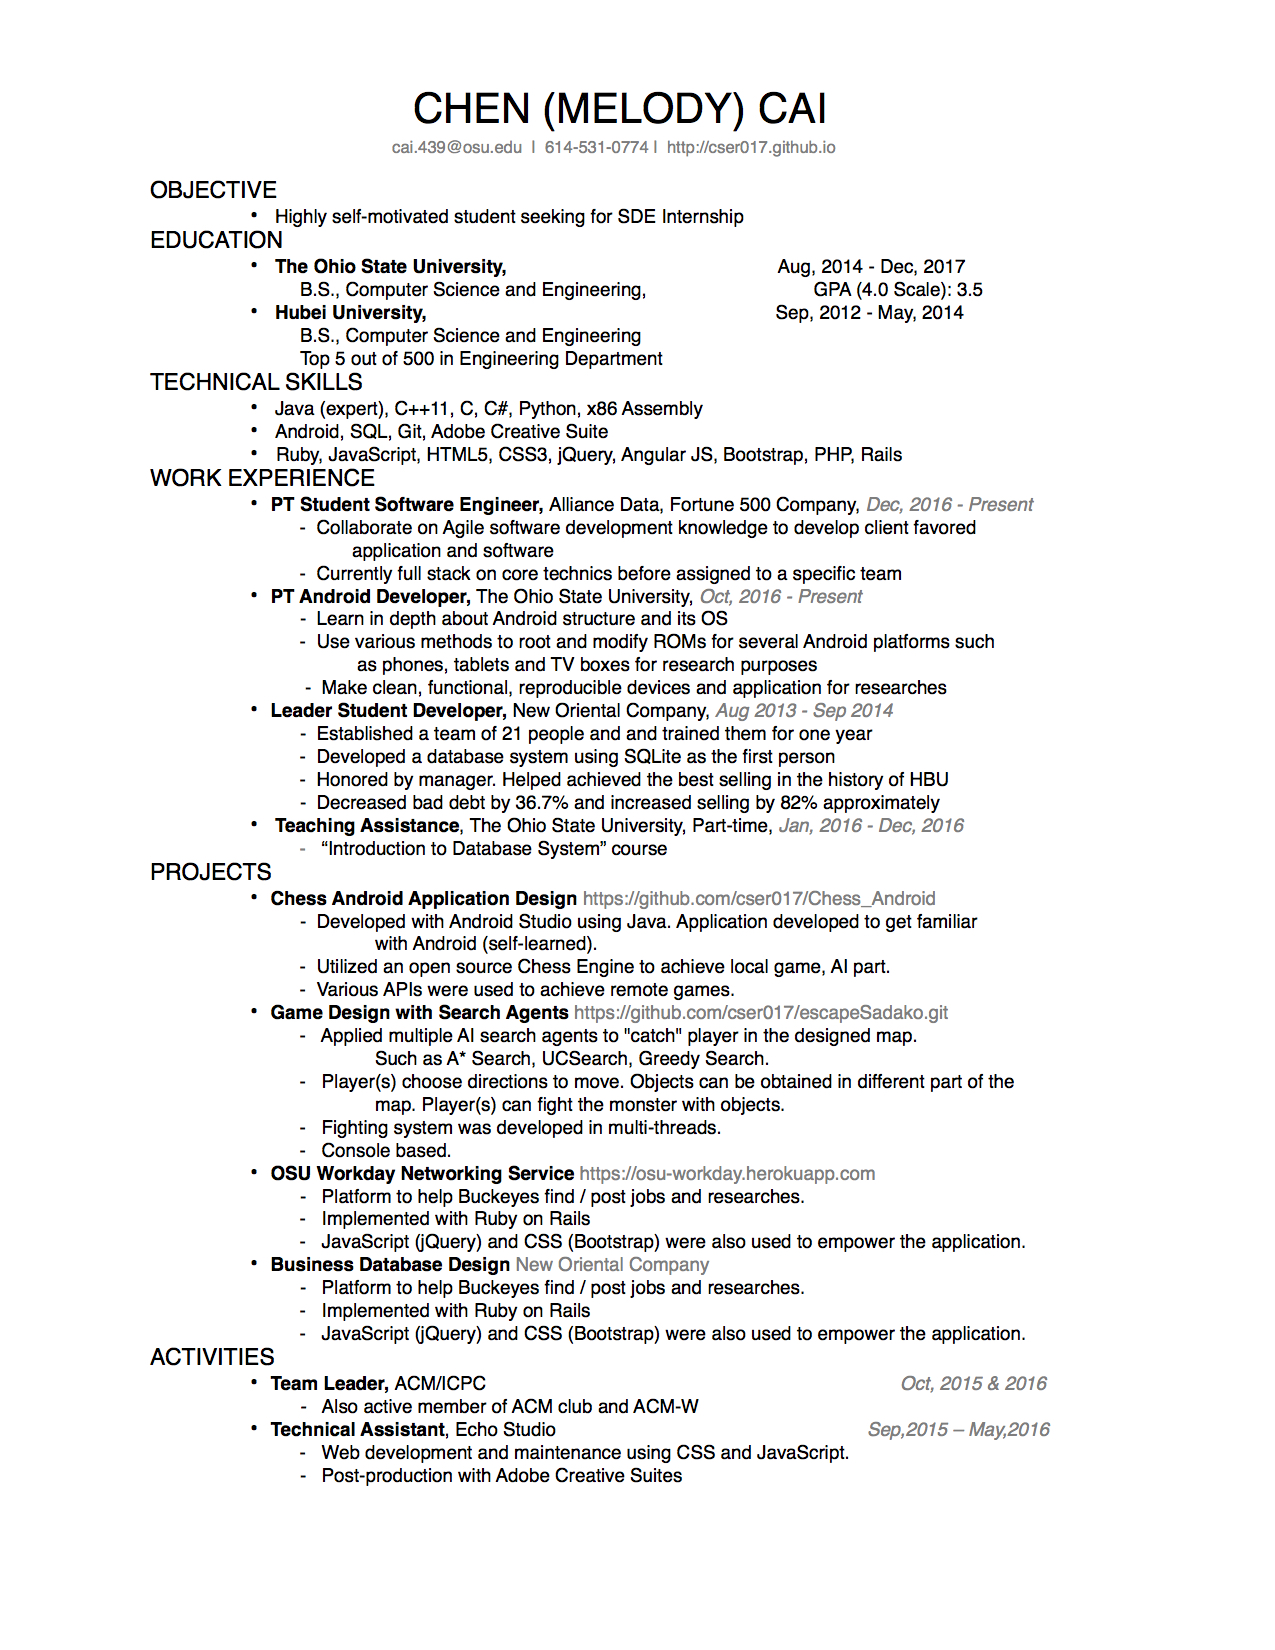
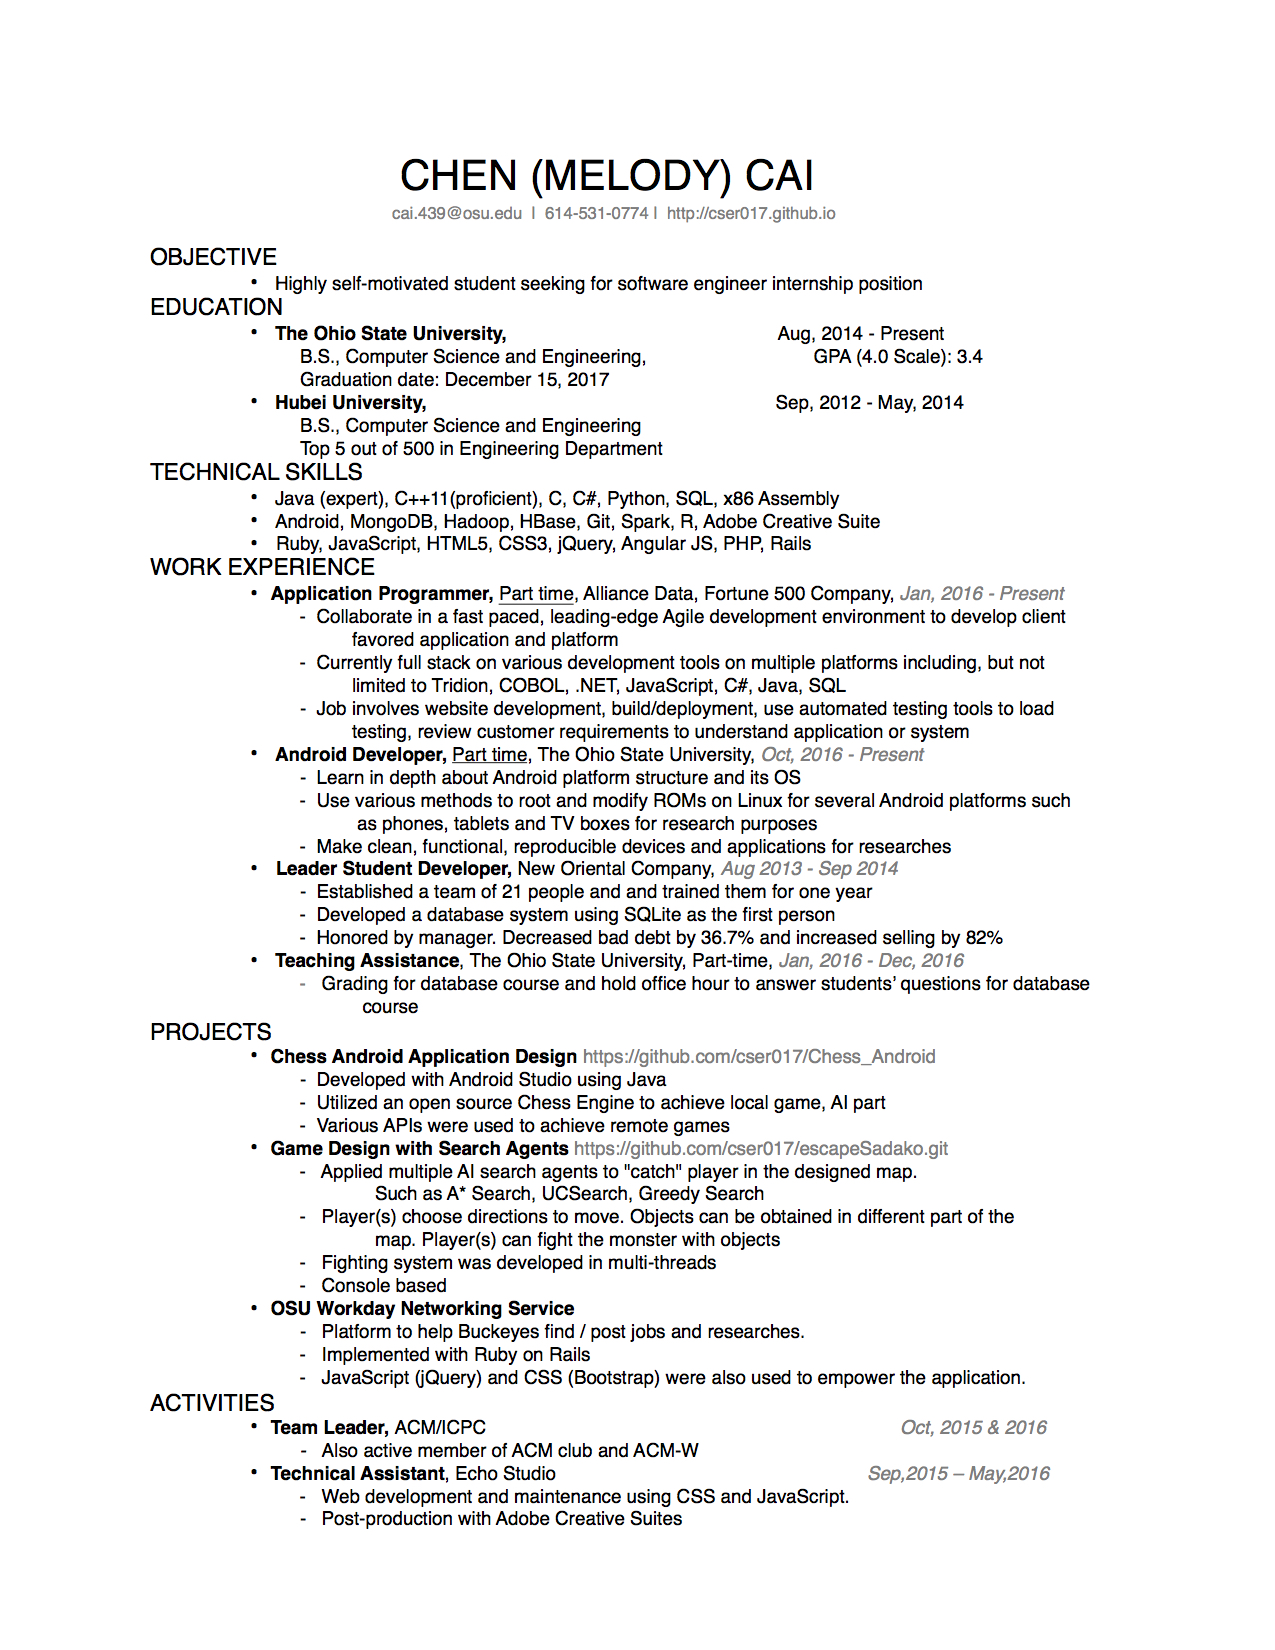
update Jan 13

Changed region(s): [[0.1224, 0.0309, 0.8565, 0.9273]]

diff --git a/3) Work Experience.html b/3) Work Experience.html
@@ -20,15 +20,20 @@
   <!--This is where all the contents of the page goes-->
 
   <ul style="list-style-type:circle">
-    <li><b>PT Student Developer</b>, Alliance Data</li>
+    <li><b>PT Programmer / Analyst</b>, Alliance Data</li>
     <ul><br>
-      <li> Learning Agile software development process</li>
-      <li> Application development and testing</li><br>
+      <li> Collaborate in a fast paced, leading-edge Agile development environment to develop client
+favored application and platform</li>
+      <li> Currently full stack on various development tools on multiple platforms including, but not
+limited to Tridion, COBOL, .NET, JavaScript, C#, Java, SQL</li>
+      <li> Job involves website development, build/deployment, use automated testing tools to load
+testing, review customer requirements to understand application or system</li><br>
     </ul>
     <li><b>Research Assistent & Andriod Developer</b>, the Ohio State University</li>
     <ul><br>
-      <li> Develop appilication and customize ROM</li>
-      <li> Help researches in physics department using computer skills</li><br>
+      <li> Learn in depth about Android platform structure and its OS</li>
+      <li> Use various methods to root and modify ROMs on Linux for several Android platforms such
+as phones, tablets and TV boxes for research purposes</li><br>
     </ul>
     <li><b>Web Development Internship</b>, the New Oriental Company</li>
     <ul><br>

diff --git a/4) Skills.html b/4) Skills.html
@@ -20,18 +20,18 @@
   <!--This is where all the contents of the page goes-->
   <h2> Qualification</h2>
   <ul style="list-style-type:circle">
-    <li>    Software Development Engineering</li>
-    <li>    Database Management</li>
-    <li>    Front-end Web Development</li>
+    <li>    Agile Software Development Engineering</li>
+    <li>    Android OS or Android Application Programming</li>
+    <li>    Web Applications and Database</li>
   </ul>
 
   <br>
 
   <h2> Languages</h2>
     <ul style="list-style-type:circle">
-      <li>    <b>Java</b>, C++, C, C#, Python, PHP, x86 Assembly </li>
+      <li>    <b>Java</b>, C++11, C, C#, Python, PHP, x86 Assembly </li>
       <li>    Ruby, JavaScript, HTML, CSS, jQuery, Angular JS, Bootstrap, Adobe Creative Suite</li>
-      <li>    SQLite, Git, SVN</li>
+      <li>    SQLite, Git, SVN, HBase, Spark, Hadoop</li>
     </ul>
 
   <hr>

diff --git a/1) Introduction.html b/1) Introduction.html
@@ -21,9 +21,9 @@
 
   <div id="second">
     <img src="image/logo.png" width="600px" height="400px">
-  <h3>Enjoy Learning!Learn Fast!</h3>
-  <h3>Excellent Team-working Skills</h3>
-  <h3>Motivated to improve! ^_^</h3>
+  <h3>Enjoy Learning! Learn Fast!</h3>
+  <h3>Excellent Team-Working Skills</h3>
+  <h3>Motivated to Improve! ^_^</h3>
   </div>
 
 
